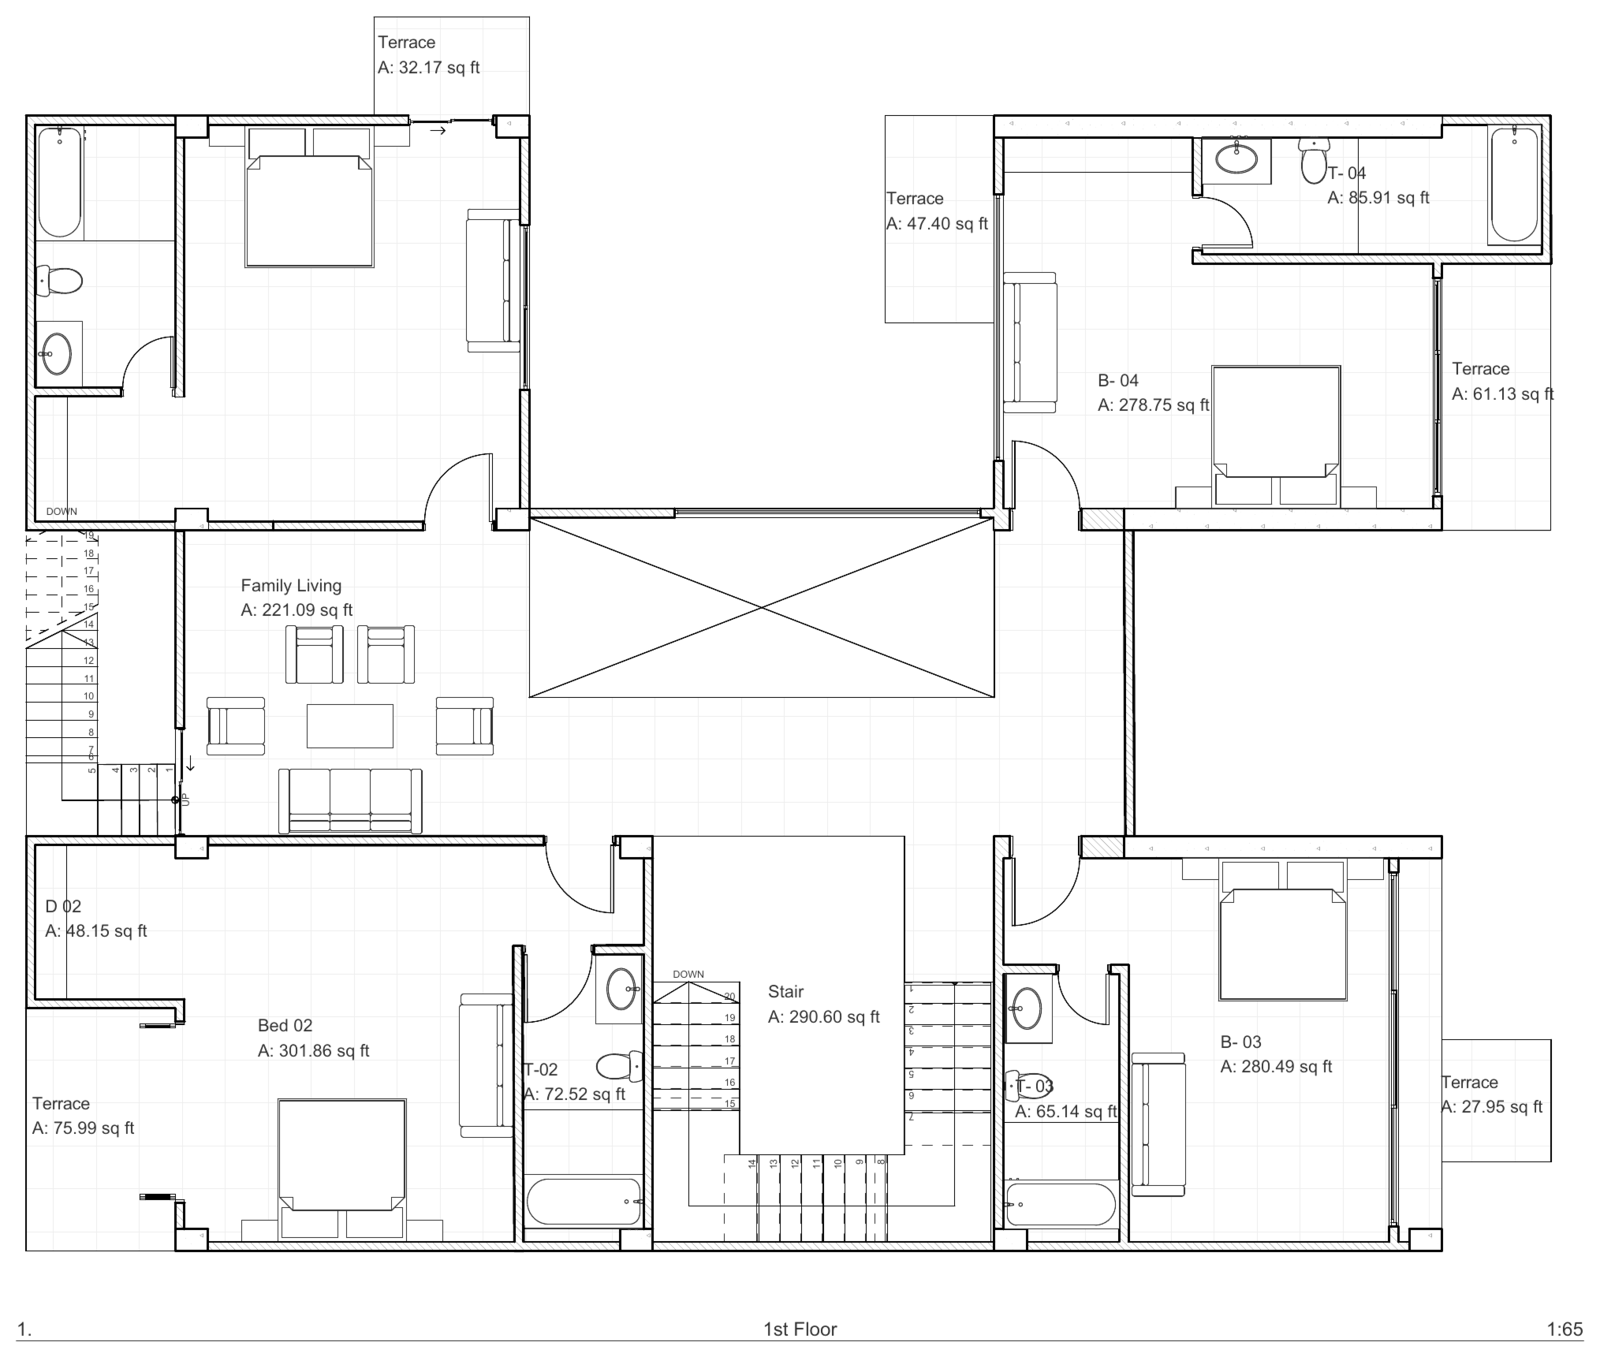
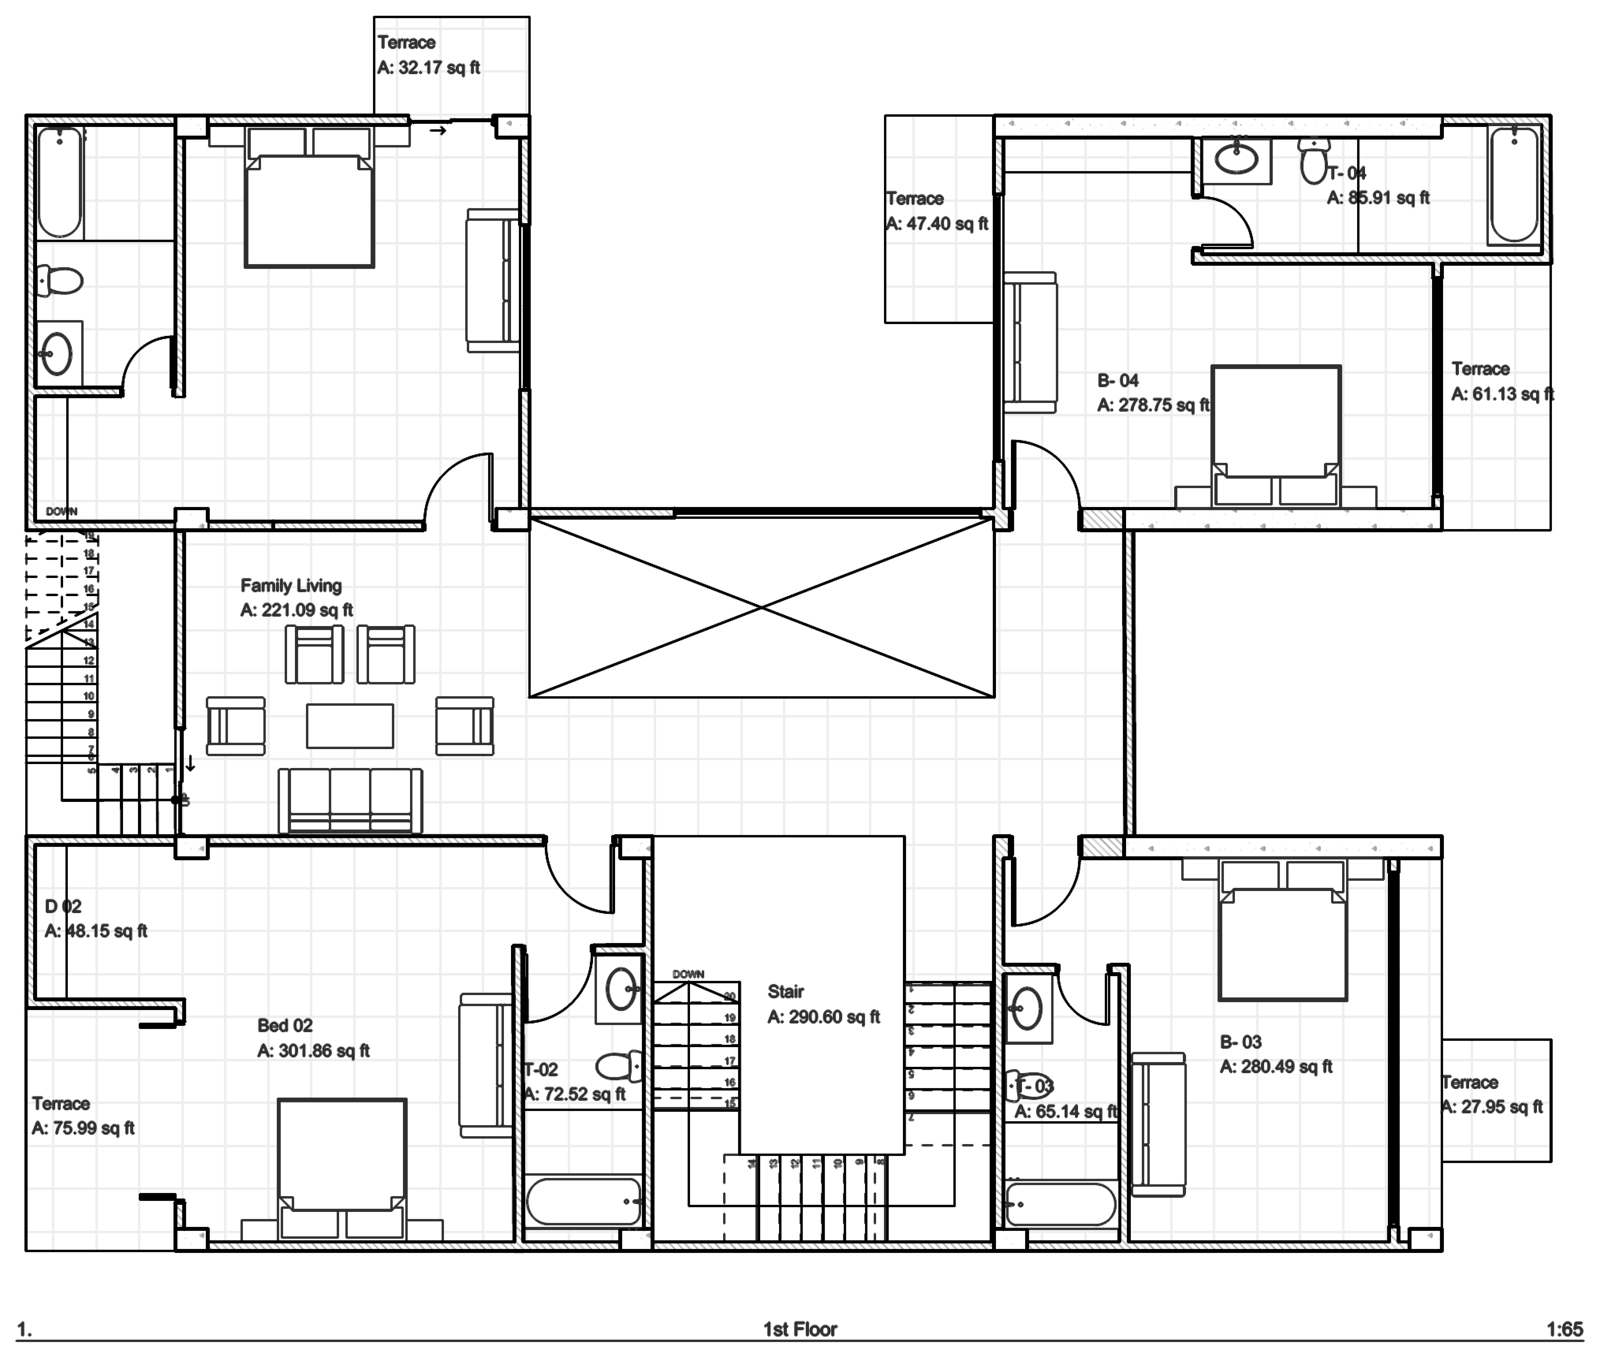
fix(web): reveal on scroll, not on mount, and thicken the plan lines
useReveal trusted usePrefersReducedMotion's first value, which is true
until the preference has been read, so every entrance on the site was
revealed at mount and had finished before anyone scrolled to it. The
blueprint wipe, the furniture cards and the custom-built panel were all
affected. The effect now asks the media query itself.

The floor-plan masks are rebuilt with a 1px dilate. At process-panel size
the 1px CAD lines faded to nothing on the dark ground.

diff --git a/apps/web/components/blueprint/blueprint.test.tsx b/apps/web/components/blueprint/blueprint.test.tsx
@@ -70,4 +70,14 @@ describe("Blueprint", () => {
     expect(container.firstElementChild).toHaveClass("absolute");
     expect(container.firstElementChild).not.toHaveClass("relative");
   });
+
+  it("waits until it is in view before drawing", () => {
+    // useReveal used to reveal on mount: the reduced-motion hook starts true
+    // until the preference is read, and the first effect took that as "reduce".
+    // Every reveal on the site finished before anyone scrolled to it.
+    motion(false);
+    vi.stubGlobal("IntersectionObserver", class { observe() {} disconnect() {} });
+    const { container } = render(<Blueprint plan="ground-floor" />);
+    expect(container.firstElementChild).toHaveAttribute("data-revealed", "false");
+  });
 });

diff --git a/apps/web/hooks/use-reveal.ts b/apps/web/hooks/use-reveal.ts
@@ -14,7 +14,10 @@ export function useReveal<T extends HTMLElement>() {
   const [revealed, setRevealed] = useState(false);
 
   useEffect(() => {
-    if (reduced) {
+    // Ask the media query itself. `reduced` starts true until the preference
+    // has been read, and trusting that first value revealed everything on
+    // mount — every entrance had finished before anyone scrolled to it.
+    if (window.matchMedia("(prefers-reduced-motion: reduce)").matches) {
       setRevealed(true);
       return;
     }
